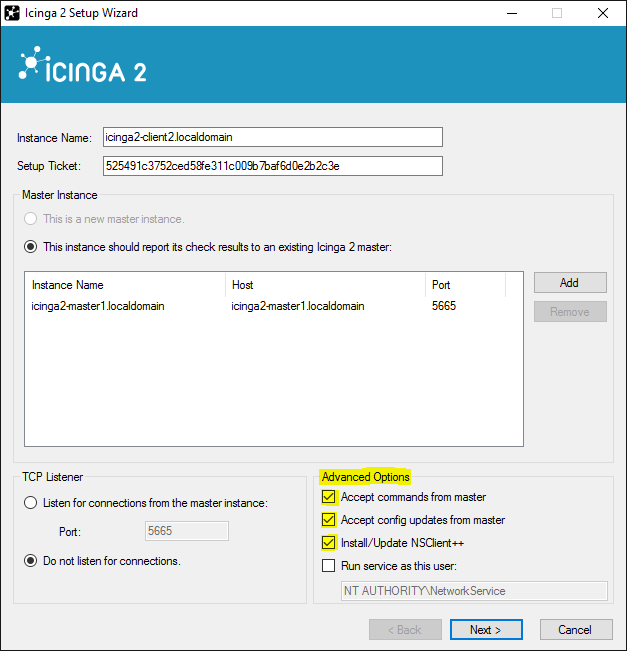
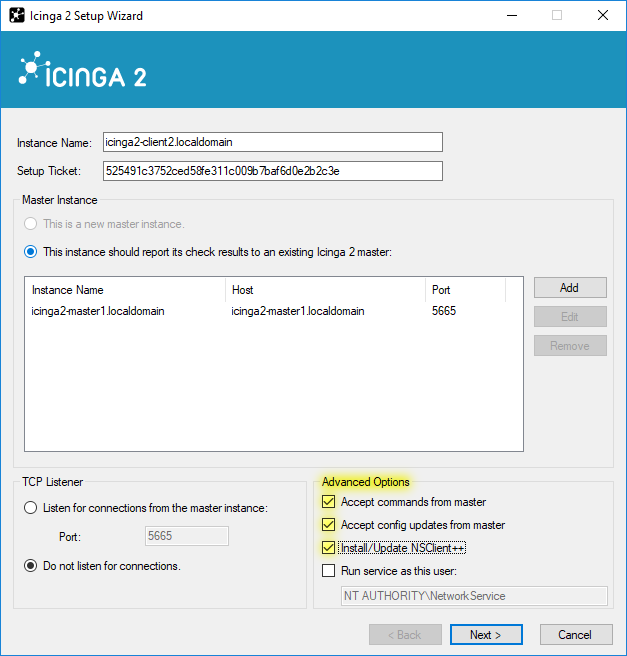
Add Edit button to Windows Setup Wizard
This adds an edit button to the windows setup wizard. This updates also the affected screenshots, where you can see the windws form, in the documentation.

diff --git a/agent/windows-setup-agent/SetupWizard.Designer.cs b/agent/windows-setup-agent/SetupWizard.Designer.cs
@@ -81,6 +81,7 @@
             this.txtError = new System.Windows.Forms.TextBox();
             this.lblError = new System.Windows.Forms.Label();
             this.picBanner = new System.Windows.Forms.PictureBox();
+            this.btnEditEndpoint = new System.Windows.Forms.Button();
             this.tabFinish.SuspendLayout();
             this.tabConfigure.SuspendLayout();
             this.tabParameters.SuspendLayout();
@@ -345,6 +346,7 @@
             // 
             // groupBox1
             // 
+            this.groupBox1.Controls.Add(this.btnEditEndpoint);
             this.groupBox1.Controls.Add(this.btnRemoveEndpoint);
             this.groupBox1.Controls.Add(this.btnAddEndpoint);
             this.groupBox1.Controls.Add(this.lvwEndpoints);
@@ -360,7 +362,7 @@
             // btnRemoveEndpoint
             // 
             this.btnRemoveEndpoint.Enabled = false;
-            this.btnRemoveEndpoint.Location = new System.Drawing.Point(520, 112);
+            this.btnRemoveEndpoint.Location = new System.Drawing.Point(520, 141);
             this.btnRemoveEndpoint.Name = "btnRemoveEndpoint";
             this.btnRemoveEndpoint.Size = new System.Drawing.Size(75, 23);
             this.btnRemoveEndpoint.TabIndex = 6;
@@ -626,6 +628,17 @@
             this.picBanner.TabIndex = 1;
             this.picBanner.TabStop = false;
             // 
+            // btnEditEndpoint
+            // 
+            this.btnEditEndpoint.Enabled = false;
+            this.btnEditEndpoint.Location = new System.Drawing.Point(520, 112);
+            this.btnEditEndpoint.Name = "btnEditEndpoint";
+            this.btnEditEndpoint.Size = new System.Drawing.Size(75, 23);
+            this.btnEditEndpoint.TabIndex = 7;
+            this.btnEditEndpoint.Text = "Edit";
+            this.btnEditEndpoint.UseVisualStyleBackColor = true;
+            this.btnEditEndpoint.Click += new System.EventHandler(this.btnEditEndpoint_Click);
+            // 
             // SetupWizard
             // 
             this.AcceptButton = this.btnNext;
@@ -723,6 +736,7 @@
 		private System.Windows.Forms.CheckBox chkInstallNSCP;
 		private System.Windows.Forms.TextBox txtUser;
 		private System.Windows.Forms.CheckBox chkRunServiceAsThisUser;
-	}
+        private System.Windows.Forms.Button btnEditEndpoint;
+    }
 }
 

diff --git a/agent/windows-setup-agent/SetupWizard.cs b/agent/windows-setup-agent/SetupWizard.cs
@@ -478,6 +478,7 @@ namespace Icinga
 		private void lvwEndpoints_SelectedIndexChanged(object sender, EventArgs e)
 		{
 			btnRemoveEndpoint.Enabled = lvwEndpoints.SelectedItems.Count > 0;
+            btnEditEndpoint.Enabled = lvwEndpoints.SelectedItems.Count > 0;
 		}
 
 		private void lvwX509Fields_SelectedIndexChanged(object sender, EventArgs e)
@@ -496,12 +497,43 @@ namespace Icinga
 				lvwEndpoints.Items.Remove(lvwEndpoints.SelectedItems[0]);
 			}
 		}
-
-		private void chkRunServiceAsThisUser_CheckedChanged(object sender, EventArgs e)
+    
+        private void chkRunServiceAsThisUser_CheckedChanged(object sender, EventArgs e)
 		{
 			txtUser.Enabled = !txtUser.Enabled;
 			if (!txtUser.Enabled)
 				txtUser.Text = Icinga2User;
 		}
-	}
+    
+        private void btnEditEndpoint_Click(object sender, EventArgs e)
+        {
+            ListViewItem lvi = lvwEndpoints.SelectedItems[0];
+            EndpointInputBox eib = new EndpointInputBox();
+
+            eib.Text = "Edit Endpoint";
+            eib.txtInstanceName.Text = lvi.SubItems[0].Text;
+
+            if (lvi.SubItems.Count >= 2) {
+                eib.txtHost.Text = lvi.SubItems[1].Text;
+                eib.txtPort.Text = lvi.SubItems[2].Text;
+                eib.chkConnect.Checked = true;
+            }
+
+            if (eib.ShowDialog(this) == DialogResult.Cancel)
+                return;
+
+            lvwEndpoints.Items.Remove(lvi);
+
+            ListViewItem lvi2 = new ListViewItem();
+            lvi2.Text = eib.txtInstanceName.Text;
+
+            if (eib.chkConnect.Checked) {
+                lvi2.SubItems.Add(eib.txtHost.Text);
+                lvi2.SubItems.Add(eib.txtPort.Text);
+            }
+
+            lvwEndpoints.Items.Add(lvi2);
+        }
+    }
 }
+
